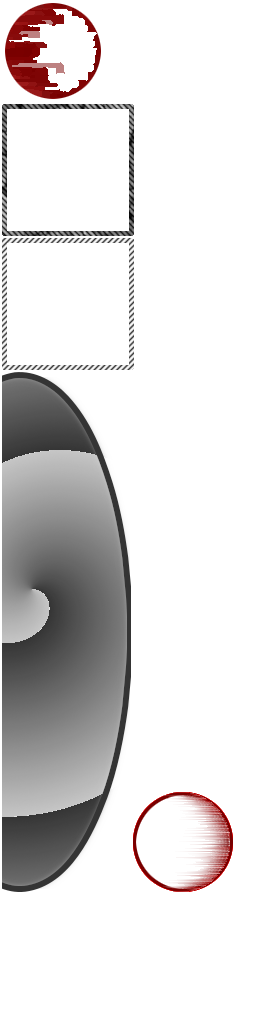
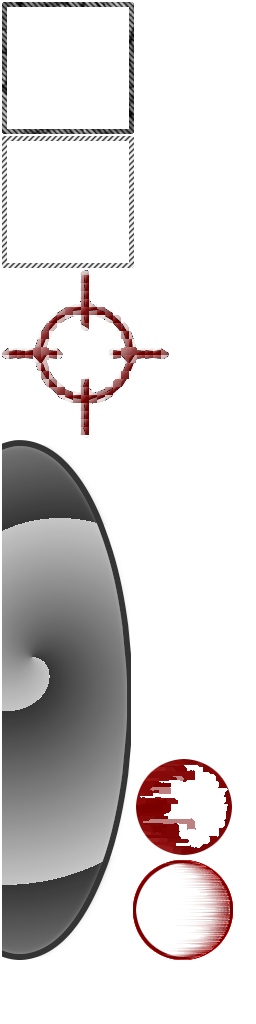
Continued rework

diff --git a/java/sandboxes/NGOL/core/src/com/aether/ngol/models/MainLayout.java b/java/sandboxes/NGOL/core/src/com/aether/ngol/models/MainLayout.java
@@ -1,9 +1,15 @@
 package com.aether.ngol.models;
 
+import com.aether.ngol.services.MouseInputProcessor;
 import com.badlogic.gdx.Gdx;
+import com.badlogic.gdx.Input;
+import com.badlogic.gdx.InputMultiplexer;
 import com.badlogic.gdx.graphics.Color;
+import com.badlogic.gdx.graphics.Pixmap;
+import com.badlogic.gdx.graphics.Texture;
 import com.badlogic.gdx.graphics.g2d.BitmapFont;
 import com.badlogic.gdx.graphics.g2d.TextureAtlas;
+import com.badlogic.gdx.graphics.g2d.TextureRegion;
 import com.badlogic.gdx.math.Vector2;
 import com.badlogic.gdx.scenes.scene2d.Actor;
 import com.badlogic.gdx.scenes.scene2d.InputEvent;
@@ -11,6 +17,7 @@ import com.badlogic.gdx.scenes.scene2d.Stage;
 import com.badlogic.gdx.scenes.scene2d.ui.*;
 import com.badlogic.gdx.scenes.scene2d.utils.ChangeListener;
 import com.badlogic.gdx.scenes.scene2d.utils.ClickListener;
+import com.badlogic.gdx.scenes.scene2d.utils.Drawable;
 import com.badlogic.gdx.utils.viewport.ExtendViewport;
 import com.badlogic.gdx.utils.viewport.FillViewport;
 import com.badlogic.gdx.utils.viewport.StretchViewport;
@@ -32,6 +39,7 @@ public class MainLayout {
     private Label speed_label;
     private Minimap minimap;
     private BrushPanel brush_panel;
+    private Image capture_mouse;
 
     public float getSpeed(){
         return speed_slider.getValue();
@@ -120,7 +128,7 @@ public class MainLayout {
         minimap = new Minimap(
             used_skin, new Vector2(data.get("ngol-width"),data.get("ngol-height"))
         );
-        brush_panel = new BrushPanel(used_skin);
+        brush_panel = new BrushPanel(used_skin, actions);
 
         main_layout = new Table();
         main_layout.setFillParent(true);
@@ -137,7 +145,7 @@ public class MainLayout {
         control_panel.add(reset_button);
         control_panel.row().fill();
         control_panel.add(brush_panel).left().padLeft(-25);
-        
+
         main_layout.setFillParent(true);
         main_layout.top().left();
 
@@ -145,10 +153,49 @@ public class MainLayout {
         main_layout.add(control_panel).top().left().expandX();
         main_layout.add(minimap).prefSize(128,128).top().left();
         minimap.layout();
+
+        capture_mouse = new Image(used_skin.getDrawable("capture_icon"));
+        capture_mouse.setSize(64,64);
+        capture_mouse.setVisible(false);
+        stage.addActor(capture_mouse);
+    }
+
+    public void setInputProcessor(){
+        MouseInputProcessor mySP = new MouseInputProcessor(new MouseInputProcessor.My_scroll_action_interface() {
+            @Override
+            public boolean scrollAction(int scrollValue) {
+                getMinimap().adjust_zoom(-0.1f * scrollValue);
+                return false;
+            }
+
+            @Override
+            public boolean mouseMoveAction(int screenX, int screenY) {
+                if(!Gdx.input.isKeyPressed(Input.Keys.TAB))
+                capture_mouse.setPosition(
+                        screenX - capture_mouse.getWidth()/2,
+                        screenY - capture_mouse.getHeight()/2
+                );
+                return false;
+            }
+
+            @Override
+            public boolean touchDownAction(int screenX, int screenY, int pointer, int button) {
+                capture_mouse.setVisible(false);
+                return false;
+            }
+        });
+        InputMultiplexer myInput = new InputMultiplexer();
+        myInput.addProcessor(mySP);
+        myInput.addProcessor(main_layout.getStage());
+        Gdx.input.setInputProcessor(myInput);
     }
 
     public void layout(){
         stage.getViewport().update(Gdx.graphics.getWidth(), Gdx.graphics.getHeight(), true);
         minimap.layout();
+    }
+
+    public void startCapture(){
+        capture_mouse.setVisible(true);
     }
 }

diff --git a/java/sandboxes/NGOL/core/src/com/aether/ngol/NGOL_Main.java b/java/sandboxes/NGOL/core/src/com/aether/ngol/NGOL_Main.java
@@ -2,10 +2,11 @@ package com.aether.ngol;
 
 import com.aether.ngol.models.MainLayout;
 import com.aether.ngol.services.NGOL;
-import com.aether.ngol.services.ScrollProcessor;
+import com.aether.ngol.services.MouseInputProcessor;
 import com.badlogic.gdx.*;
 import com.badlogic.gdx.graphics.GL20;
 import com.badlogic.gdx.graphics.Texture;
+import com.badlogic.gdx.graphics.g2d.TextureRegion;
 import com.badlogic.gdx.math.Vector2;
 import com.badlogic.gdx.math.Vector3;
 import com.badlogic.gdx.scenes.scene2d.Actor;
@@ -41,22 +42,19 @@ public class NGOL_Main extends ApplicationAdapter {
 				ngol.setOverPopThr(((Slider)actor).getValue());
 			}
 		});
+		actions.put("startCapture", new ChangeListener() {
+			@Override
+			public void changed(ChangeEvent event, Actor actor) {
+				main_layout.startCapture();
+			}
+		});
 
 		HashMap<String,Float> data = new HashMap<>();
 		data.put("ngol-width", 2048.0f);
 		data.put("ngol-height", 2048.0f);
 		main_layout = new MainLayout(actions,data);
+		main_layout.setInputProcessor();
 
-		ScrollProcessor mySP = new ScrollProcessor(new ScrollProcessor.My_scroll_action_interface() {
-			@Override
-			public void scrollAction(int scrollValue) {
-			main_layout.getMinimap().adjust_zoom(-0.1f * scrollValue);
-			}
-		});
-		InputMultiplexer myInput = new InputMultiplexer();
-		myInput.addProcessor(mySP);
-		myInput.addProcessor(main_layout.getStage());
-		Gdx.input.setInputProcessor(myInput);
 		Gdx.gl.glClearColor(0.2f, 0.5f, 0.1f, 1);
 		ngol = new NGOL(2048,2048, 2f, 3f);
 		ngol.randomize();
@@ -82,7 +80,7 @@ public class NGOL_Main extends ApplicationAdapter {
 			}
 		}
 
-		if(Gdx.input.isKeyPressed(Input.Keys.SPACE)&&Gdx.input.isTouched()){
+		if((null != main_layout.getBrushPanel().get_selected_brush())&&Gdx.input.isTouched()){
 			if(null != main_layout.getBrushPanel().get_selected_brush())
 			ngol.addBrush(
 					new Texture(main_layout.getBrushPanel().get_selected_brush()),
@@ -90,7 +88,7 @@ public class NGOL_Main extends ApplicationAdapter {
 							main_layout.getStage().getCamera().unproject(new Vector3(Gdx.input.getX(), Gdx.input.getY(),0)).x,
 							main_layout.getStage().getCamera().unproject(new Vector3(Gdx.input.getX(), Gdx.input.getY(),0)).y
 					)),
-				new Vector2(64,64)
+				new Vector2(256/main_layout.getMinimap().get_zoom(),256/main_layout.getMinimap().get_zoom())
 			);
 		}
 
@@ -98,8 +96,19 @@ public class NGOL_Main extends ApplicationAdapter {
 			main_layout.getMinimap().adjust_zoom(-0.05f);
 		}
 		if(Gdx.input.isKeyPressed(Input.Keys.PLUS)){
-//			main_layout.getMinimap().adjust_zoom(+0.05f);
-			Gdx.graphics.setWindowedMode(1280,960);
+			main_layout.getMinimap().adjust_zoom(+0.05f);
+		}
+		if(Gdx.input.isKeyPressed(Input.Keys.LEFT)){
+			main_layout.getMinimap().step(-10,0);
+		}
+		if(Gdx.input.isKeyPressed(Input.Keys.RIGHT)){
+			main_layout.getMinimap().step(10,0);
+		}
+		if(Gdx.input.isKeyPressed(Input.Keys.UP)){
+			main_layout.getMinimap().step(0,10);
+		}
+		if(Gdx.input.isKeyPressed(Input.Keys.DOWN)){
+			main_layout.getMinimap().step(0,-10);
 		}
 
 		Gdx.gl.glClear(GL20.GL_COLOR_BUFFER_BIT);

diff --git a/java/sandboxes/NGOL/core/src/com/aether/ngol/models/Minimap.java b/java/sandboxes/NGOL/core/src/com/aether/ngol/models/Minimap.java
@@ -32,16 +32,7 @@ public class Minimap extends WidgetGroup {
         minimap_position.setPosition(0,0);
         minimap_position.addListener(new DragListener(){
             public void drag(InputEvent event, float x, float y, int pointer) {
-            Vector2 addition = new Vector2(x - minimap_position.getWidth() / 2, y - minimap_position.getHeight() / 2);
-            Vector2 new_position = new Vector2(minimap_position.getX(),minimap_position.getY()).add(addition);
-            if((0 > new_position.x)||((new_position.x + minimap_position.getWidth()) > minimap_border.getWidth())){
-                addition.x = 0.00001f;
-            }
-            if((0 > new_position.y)||((new_position.y + minimap_position.getHeight()) > minimap_border.getHeight())){
-                addition.y = 0.00001f;
-            }
-
-            minimap_position.moveBy(addition.x, addition.y);
+                step(x,y);
             }
         });
 
@@ -56,6 +47,10 @@ public class Minimap extends WidgetGroup {
         (getWidth() * Gdx.graphics.getWidth())/minimap_position.getWidth(),
         (getHeight() * Gdx.graphics.getHeight())/minimap_position.getHeight()
         );
+    }
+
+    public float get_zoom(){
+        return zoom_width_value;
     }
 
     public Vector2 get_camera_position(){
@@ -97,5 +92,17 @@ public class Minimap extends WidgetGroup {
     public void set_map_image(TextureRegion minimap_image){
         minimap.setDrawable(new TextureRegionDrawable(minimap_image));
         layout();
+    }
+
+    public void step(float x, float y){
+        Vector2 addition = new Vector2(x , y );
+        Vector2 new_position = new Vector2(minimap_position.getX(),minimap_position.getY()).add(addition);
+        if((0 > new_position.x)||((new_position.x + minimap_position.getWidth()) > minimap_border.getWidth())){
+            addition.x = 0.00001f;
+        }
+        if((0 > new_position.y)||((new_position.y + minimap_position.getHeight()) > minimap_border.getHeight())){
+            addition.y = 0.00001f;
+        }
+        minimap_position.moveBy(addition.x, addition.y);
     }
 }

diff --git a/java/sandboxes/NGOL/core/src/com/aether/ngol/models/BrushPanel.java b/java/sandboxes/NGOL/core/src/com/aether/ngol/models/BrushPanel.java
@@ -11,6 +11,8 @@ import com.badlogic.gdx.scenes.scene2d.utils.ChangeListener;
 import com.badlogic.gdx.scenes.scene2d.utils.TextureRegionDrawable;
 import com.badlogic.gdx.utils.Align;
 
+import java.util.HashMap;
+
 
 public class BrushPanel extends Table {
     Button brushes[];
@@ -22,7 +24,7 @@ public class BrushPanel extends Table {
     TextButton remove_button;
     BrushSet currentSet;
 
-    public BrushPanel(Skin used_skin){
+    public BrushPanel(Skin used_skin, HashMap<String, ChangeListener> actions){
         BitmapFont bitmapFont = new BitmapFont(Gdx.files.internal("font-export.fnt"), used_skin.getRegion("font-export"));
         setBackground(used_skin.getDrawable("panel"));
         top().left().padLeft(Value.percentWidth(.25f,this));
@@ -50,6 +52,7 @@ public class BrushPanel extends Table {
         capture_button = new ImageButton(imageButtonStyle_capture);
         capture_button.setTransform(true);
         capture_button.setScale(1.0f,0.95f);
+        capture_button.addListener(actions.get("startCapture"));
 
         TextButton.TextButtonStyle textButtonStyle = new TextButton.TextButtonStyle();
         textButtonStyle.font = bitmapFont;
@@ -63,7 +66,7 @@ public class BrushPanel extends Table {
         add_button.addListener(new ChangeListener() {
             @Override
             public void changed(ChangeEvent event, Actor actor) {
-                currentSet.addBrush(new Texture(Gdx.files.internal("brush.png"), Pixmap.Format.RGBA8888,true));
+            currentSet.addBrush(new Texture(Gdx.files.internal("brush.png"), Pixmap.Format.RGBA8888,true));
             }
         });
         remove_button = new TextButton("-",textButtonStyle);

diff --git a/java/sandboxes/NGOL/core/src/com/aether/ngol/services/MouseInputProcessor.java b/java/sandboxes/NGOL/core/src/com/aether/ngol/services/MouseInputProcessor.java
@@ -1,16 +1,19 @@
 package com.aether.ngol.services;
 
+import com.badlogic.gdx.Gdx;
 import com.badlogic.gdx.InputProcessor;
 
-public class ScrollProcessor implements InputProcessor {
+public class MouseInputProcessor implements InputProcessor {
 
     public interface My_scroll_action_interface {
-        void scrollAction(int scrollValue);
+        boolean scrollAction(int scrollValue);
+        boolean mouseMoveAction(int screenX, int screenY);
+        boolean touchDownAction(int screenX, int screenY, int pointer, int button);
     };
 
     private My_scroll_action_interface my_action;
 
-    public ScrollProcessor(My_scroll_action_interface fnc){
+    public MouseInputProcessor(My_scroll_action_interface fnc){
         my_action = fnc;
     }
 
@@ -31,7 +34,7 @@ public class ScrollProcessor implements InputProcessor {
 
     @Override
     public boolean touchDown(int screenX, int screenY, int pointer, int button) {
-        return false;
+        return my_action.touchDownAction(screenX,screenY,pointer,button);
     }
 
     @Override
@@ -46,12 +49,11 @@ public class ScrollProcessor implements InputProcessor {
 
     @Override
     public boolean mouseMoved(int screenX, int screenY) {
-        return false;
+        return my_action.mouseMoveAction(screenX, Gdx.graphics.getHeight() - screenY);
     }
 
     @Override
     public boolean scrolled(int amount) {
-        my_action.scrollAction(amount);
-        return false;
+        return my_action.scrollAction(amount);
     }
 }
